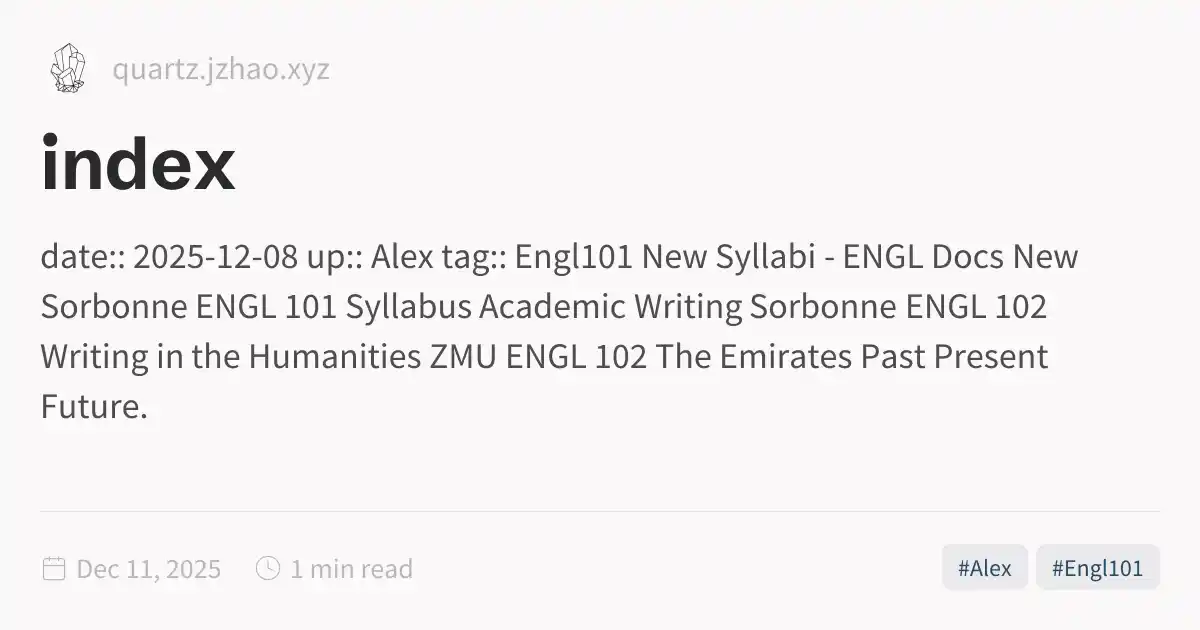
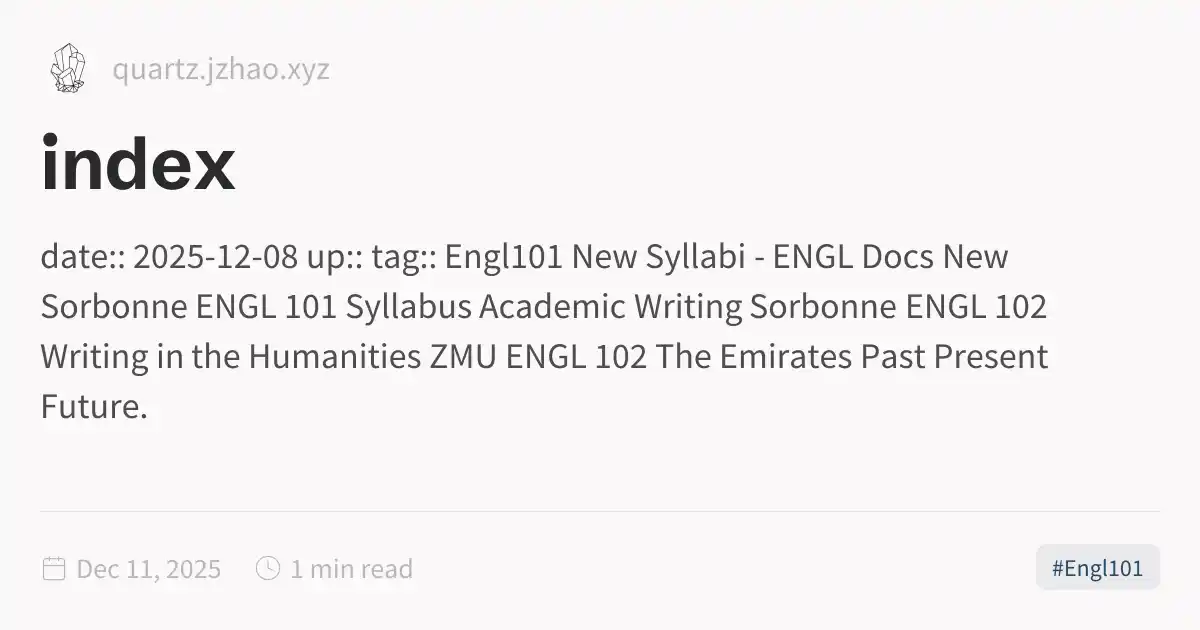
Rebuild and deploy latest changes

Changed region(s): [[0.3083, 0.3619, 0.8942, 0.4524], [0.8017, 0.8746, 0.8325, 0.9349]]

diff --git a/docs/tags/index.html b/docs/tags/index.html
@@ -115,6 +115,6 @@ pre:hover > .expand-button {
   padding: 0 12px;
   font-size: 14px;
 }
[2 lines of base64/hex data omitted]
 </script><script type="module" data-persist="true">function E(a,e){if(!a)return;function t(o){o.target===this&&(o.preventDefault(),o.stopPropagation(),e())}function n(o){o.key.startsWith("Esc")&&(o.preventDefault(),e())}a?.addEventListener("click",t),window.addCleanup(()=>a?.removeEventListener("click",t)),document.addEventListener("keydown",n),window.addCleanup(()=>document.removeEventListener("keydown",n))}function f(a){for(;a.firstChild;)a.removeChild(a.firstChild)}var m=class{constructor(e,t){this.container=e;this.content=t;this.setupEventListeners(),this.setupNavigationControls(),this.resetTransform()}isDragging=!1;startPan={x:0,y:0};currentPan={x:0,y:0};scale=1;MIN_SCALE=.5;MAX_SCALE=3;cleanups=[];setupEventListeners(){let e=this.onMouseDown.bind(this),t=this.onMouseMove.bind(this),n=this.onMouseUp.bind(this),o=this.onTouchStart.bind(this),r=this.onTouchMove.bind(this),i=this.onTouchEnd.bind(this),s=this.resetTransform.bind(this);this.container.addEventListener("mousedown",e),document.addEventListener("mousemove",t),document.addEventListener("mouseup",n),this.container.addEventListener("touchstart",o,{passive:!1}),document.addEventListener("touchmove",r,{passive:!1}),document.addEventListener("touchend",i),window.addEventListener("resize",s),this.cleanups.push(()=>this.container.removeEventListener("mousedown",e),()=>document.removeEventListener("mousemove",t),()=>document.removeEventListener("mouseup",n),()=>this.container.removeEventListener("touchstart",o),()=>document.removeEventListener("touchmove",r),()=>document.removeEventListener("touchend",i),()=>window.removeEventListener("resize",s))}cleanup(){for(let e of this.cleanups)e()}setupNavigationControls(){let e=document.createElement("div");e.className="mermaid-controls";let t=this.createButton("+",()=>this.zoom(.1)),n=this.createButton("-",()=>this.zoom(-.1)),o=this.createButton("Reset",()=>this.resetTransform());e.appendChild(n),e.appendChild(o),e.appendChild(t),this.container.appendChild(e)}createButton(e,t){let n=document.createElement("button");return n.textContent=e,n.className="mermaid-control-button",n.addEventListener("click",t),window.addCleanup(()=>n.removeEventListener("click",t)),n}onMouseDown(e){e.button===0&&(this.isDragging=!0,this.startPan={x:e.clientX-this.currentPan.x,y:e.clientY-this.currentPan.y},this.container.style.cursor="grabbing")}onMouseMove(e){this.isDragging&&(e.preventDefault(),this.currentPan={x:e.clientX-this.startPan.x,y:e.clientY-this.startPan.y},this.updateTransform())}onMouseUp(){this.isDragging=!1,this.container.style.cursor="grab"}onTouchStart(e){if(e.touches.length!==1)return;this.isDragging=!0;let t=e.touches[0];this.startPan={x:t.clientX-this.currentPan.x,y:t.clientY-this.currentPan.y}}onTouchMove(e){if(!this.isDragging||e.touches.length!==1)return;e.preventDefault();let t=e.touches[0];this.currentPan={x:t.clientX-this.startPan.x,y:t.clientY-this.startPan.y},this.updateTransform()}onTouchEnd(){this.isDragging=!1}zoom(e){let t=Math.min(Math.max(this.scale+e,this.MIN_SCALE),this.MAX_SCALE),n=this.content.getBoundingClientRect(),o=n.width/2,r=n.height/2,i=t-this.scale;this.currentPan.x-=o*i,this.currentPan.y-=r*i,this.scale=t,this.updateTransform()}updateTransform(){this.content.style.transform=`translate(${this.currentPan.x}px, ${this.currentPan.y}px) scale(${this.scale})`}resetTransform(){let t=this.content.querySelector("svg").getBoundingClientRect(),n=t.width/this.scale,o=t.height/this.scale;this.scale=1,this.currentPan={x:(this.container.clientWidth-n)/2,y:(this.container.clientHeight-o)/2},this.updateTransform()}},T=["--secondary","--tertiary","--gray","--light","--lightgray","--highlight","--dark","--darkgray","--codeFont"],y;document.addEventListener("nav",async()=>{let e=document.querySelector(".center").querySelectorAll("code.mermaid");if(e.length===0)return;y||=await import("https://cdnjs.cloudflare.com/ajax/libs/mermaid/11.4.0/mermaid.esm.min.mjs");let t=y.default,n=new WeakMap;for(let r of e)n.set(r,r.innerText);async function o(){for(let s of e){s.removeAttribute("data-processed");let c=n.get(s);c&&(s.innerHTML=c)}let r=T.reduce((s,c)=>(s[c]=window.getComputedStyle(document.documentElement).getPropertyValue(c),s),{}),i=document.documentElement.getAttribute("saved-theme")==="dark";t.initialize({startOnLoad:!1,securityLevel:"loose",theme:i?"dark":"base",themeVariables:{fontFamily:r["--codeFont"],primaryColor:r["--light"],primaryTextColor:r["--darkgray"],primaryBorderColor:r["--tertiary"],lineColor:r["--darkgray"],secondaryColor:r["--secondary"],tertiaryColor:r["--tertiary"],clusterBkg:r["--light"],edgeLabelBackground:r["--highlight"]}}),await t.run({nodes:e})}await o(),document.addEventListener("themechange",o),window.addCleanup(()=>document.removeEventListener("themechange",o));for(let r=0;r<e.length;r++){let v=function(){let g=l.querySelector("#mermaid-space"),h=l.querySelector(".mermaid-content");if(!h)return;f(h);let w=i.querySelector("svg").cloneNode(!0);h.appendChild(w),l.classList.add("active"),g.style.cursor="grab",u=new m(g,h)},M=function(){l.classList.remove("active"),u?.cleanup(),u=null},i=e[r],s=i.parentElement,c=s.querySelector(".clipboard-button"),d=s.querySelector(".expand-button"),p=window.getComputedStyle(c),L=c.offsetWidth+parseFloat(p.marginLeft||"0")+parseFloat(p.marginRight||"0");d.style.right=`calc(${L}px + 0.3rem)`,s.prepend(d);let l=s.querySelector("#mermaid-container");if(!l)return;let u=null;d.addEventListener("click",v),E(l,M),window.addCleanup(()=>{u?.cleanup(),d.removeEventListener("click",v)})}});
 </script><script src="https://cdn.jsdelivr.net/npm/katex@0.16.11/dist/contrib/copy-tex.min.js" type="application/javascript" data-persist="true"></script><script src="../postscript.js" type="module" data-persist="true"></script></html>

diff --git a/docs/index.html b/docs/index.html
@@ -1,5 +1,5 @@
 <!DOCTYPE html>
-<html lang="en" dir="ltr"><head><title>index</title><meta charset="utf-8"/><link rel="preconnect" href="https://fonts.googleapis.com"/><link rel="preconnect" href="https://fonts.gstatic.com"/><link rel="stylesheet" href="https://fonts.googleapis.com/css2?family=Schibsted Grotesk:wght@400;700&amp;family=Source Sans Pro:ital,wght@0,400;0,600;1,400;1,600&amp;family=IBM Plex Mono:wght@400;600&amp;display=swap"/><link rel="preconnect" href="https://cdnjs.cloudflare.com" crossorigin="anonymous"/><meta name="viewport" content="width=device-width, initial-scale=1.0"/><meta name="og:site_name" content="Quartz 4"/><meta property="og:title" content="index"/><meta property="og:type" content="website"/><meta name="twitter:card" content="summary_large_image"/><meta name="twitter:title" content="index"/><meta name="twitter:description" content="date:: 2025-12-08 up:: Alex tag:: Engl101 New Syllabi - ENGL Docs New Sorbonne ENGL 101 Syllabus Academic Writing Sorbonne ENGL 102 Writing in the Humanities ZMU ENGL 102 The Emirates Past Present Future."/><meta property="og:description" content="date:: 2025-12-08 up:: Alex tag:: Engl101 New Syllabi - ENGL Docs New Sorbonne ENGL 101 Syllabus Academic Writing Sorbonne ENGL 102 Writing in the Humanities ZMU ENGL 102 The Emirates Past Present Future."/><meta property="og:image:alt" content="date:: 2025-12-08 up:: Alex tag:: Engl101 New Syllabi - ENGL Docs New Sorbonne ENGL 101 Syllabus Academic Writing Sorbonne ENGL 102 Writing in the Humanities ZMU ENGL 102 The Emirates Past Present Future."/><meta property="twitter:domain" content="quartz.jzhao.xyz"/><meta property="og:url" content="https://quartz.jzhao.xyz/index"/><meta property="twitter:url" content="https://quartz.jzhao.xyz/index"/><link rel="icon" href="./static/icon.png"/><meta name="description" content="date:: 2025-12-08 up:: Alex tag:: Engl101 New Syllabi - ENGL Docs New Sorbonne ENGL 101 Syllabus Academic Writing Sorbonne ENGL 102 Writing in the Humanities ZMU ENGL 102 The Emirates Past Present Future."/><meta name="generator" content="Quartz"/><link href="./index.css" rel="stylesheet" type="text/css" data-persist="true"/><style>.expand-button {
+<html lang="en" dir="ltr"><head><title>index</title><meta charset="utf-8"/><link rel="preconnect" href="https://fonts.googleapis.com"/><link rel="preconnect" href="https://fonts.gstatic.com"/><link rel="stylesheet" href="https://fonts.googleapis.com/css2?family=Schibsted Grotesk:wght@400;700&amp;family=Source Sans Pro:ital,wght@0,400;0,600;1,400;1,600&amp;family=IBM Plex Mono:wght@400;600&amp;display=swap"/><link rel="preconnect" href="https://cdnjs.cloudflare.com" crossorigin="anonymous"/><meta name="viewport" content="width=device-width, initial-scale=1.0"/><meta name="og:site_name" content="Quartz 4"/><meta property="og:title" content="index"/><meta property="og:type" content="website"/><meta name="twitter:card" content="summary_large_image"/><meta name="twitter:title" content="index"/><meta name="twitter:description" content="date:: 2025-12-08 up:: tag:: Engl101 New Syllabi - ENGL Docs New Sorbonne ENGL 101 Syllabus Academic Writing Sorbonne ENGL 102 Writing in the Humanities ZMU ENGL 102 The Emirates Past Present Future."/><meta property="og:description" content="date:: 2025-12-08 up:: tag:: Engl101 New Syllabi - ENGL Docs New Sorbonne ENGL 101 Syllabus Academic Writing Sorbonne ENGL 102 Writing in the Humanities ZMU ENGL 102 The Emirates Past Present Future."/><meta property="og:image:alt" content="date:: 2025-12-08 up:: tag:: Engl101 New Syllabi - ENGL Docs New Sorbonne ENGL 101 Syllabus Academic Writing Sorbonne ENGL 102 Writing in the Humanities ZMU ENGL 102 The Emirates Past Present Future."/><meta property="twitter:domain" content="quartz.jzhao.xyz"/><meta property="og:url" content="https://quartz.jzhao.xyz/index"/><meta property="twitter:url" content="https://quartz.jzhao.xyz/index"/><link rel="icon" href="./static/icon.png"/><meta name="description" content="date:: 2025-12-08 up:: tag:: Engl101 New Syllabi - ENGL Docs New Sorbonne ENGL 101 Syllabus Academic Writing Sorbonne ENGL 102 Writing in the Humanities ZMU ENGL 102 The Emirates Past Present Future."/><meta name="generator" content="Quartz"/><link href="./index.css" rel="stylesheet" type="text/css" data-persist="true"/><style>.expand-button {
   position: absolute;
   display: flex;
   float: right;
@@ -115,8 +115,8 @@ pre:hover > .expand-button {
   padding: 0 12px;
   font-size: 14px;
 }
[1 lines of base64/hex data omitted]
-up:: <a href="./tags/Alex" class="tag-link internal alias" data-slug="tags/Alex">Alex</a>
[1 lines of base64/hex data omitted]
+up::
 tag:: <a href="./tags/Engl101" class="tag-link internal alias" data-slug="tags/Engl101">Engl101</a></p>
 <hr/>
 <h1 id="new-syllabi---engl-docs-new">New Syllabi - ENGL Docs New<a role="anchor" aria-hidden="true" tabindex="-1" data-no-popover="true" href="#new-syllabi---engl-docs-new" class="internal"><svg width="18" height="18" viewBox="0 0 24 24" fill="none" stroke="currentColor" stroke-width="2" stroke-linecap="round" stroke-linejoin="round"><path d="M10 13a5 5 0 0 0 7.54.54l3-3a5 5 0 0 0-7.07-7.07l-1.72 1.71"></path><path d="M14 11a5 5 0 0 0-7.54-.54l-3 3a5 5 0 0 0 7.07 7.07l1.71-1.71"></path></svg></a></h1>

diff --git a/docs/tags/ENGL101.html b/docs/tags/ENGL101.html
@@ -115,6 +115,6 @@ pre:hover > .expand-button {
   padding: 0 12px;
   font-size: 14px;
 }
[2 lines of base64/hex data omitted]
 </script><script type="module" data-persist="true">function E(a,e){if(!a)return;function t(o){o.target===this&&(o.preventDefault(),o.stopPropagation(),e())}function n(o){o.key.startsWith("Esc")&&(o.preventDefault(),e())}a?.addEventListener("click",t),window.addCleanup(()=>a?.removeEventListener("click",t)),document.addEventListener("keydown",n),window.addCleanup(()=>document.removeEventListener("keydown",n))}function f(a){for(;a.firstChild;)a.removeChild(a.firstChild)}var m=class{constructor(e,t){this.container=e;this.content=t;this.setupEventListeners(),this.setupNavigationControls(),this.resetTransform()}isDragging=!1;startPan={x:0,y:0};currentPan={x:0,y:0};scale=1;MIN_SCALE=.5;MAX_SCALE=3;cleanups=[];setupEventListeners(){let e=this.onMouseDown.bind(this),t=this.onMouseMove.bind(this),n=this.onMouseUp.bind(this),o=this.onTouchStart.bind(this),r=this.onTouchMove.bind(this),i=this.onTouchEnd.bind(this),s=this.resetTransform.bind(this);this.container.addEventListener("mousedown",e),document.addEventListener("mousemove",t),document.addEventListener("mouseup",n),this.container.addEventListener("touchstart",o,{passive:!1}),document.addEventListener("touchmove",r,{passive:!1}),document.addEventListener("touchend",i),window.addEventListener("resize",s),this.cleanups.push(()=>this.container.removeEventListener("mousedown",e),()=>document.removeEventListener("mousemove",t),()=>document.removeEventListener("mouseup",n),()=>this.container.removeEventListener("touchstart",o),()=>document.removeEventListener("touchmove",r),()=>document.removeEventListener("touchend",i),()=>window.removeEventListener("resize",s))}cleanup(){for(let e of this.cleanups)e()}setupNavigationControls(){let e=document.createElement("div");e.className="mermaid-controls";let t=this.createButton("+",()=>this.zoom(.1)),n=this.createButton("-",()=>this.zoom(-.1)),o=this.createButton("Reset",()=>this.resetTransform());e.appendChild(n),e.appendChild(o),e.appendChild(t),this.container.appendChild(e)}createButton(e,t){let n=document.createElement("button");return n.textContent=e,n.className="mermaid-control-button",n.addEventListener("click",t),window.addCleanup(()=>n.removeEventListener("click",t)),n}onMouseDown(e){e.button===0&&(this.isDragging=!0,this.startPan={x:e.clientX-this.currentPan.x,y:e.clientY-this.currentPan.y},this.container.style.cursor="grabbing")}onMouseMove(e){this.isDragging&&(e.preventDefault(),this.currentPan={x:e.clientX-this.startPan.x,y:e.clientY-this.startPan.y},this.updateTransform())}onMouseUp(){this.isDragging=!1,this.container.style.cursor="grab"}onTouchStart(e){if(e.touches.length!==1)return;this.isDragging=!0;let t=e.touches[0];this.startPan={x:t.clientX-this.currentPan.x,y:t.clientY-this.currentPan.y}}onTouchMove(e){if(!this.isDragging||e.touches.length!==1)return;e.preventDefault();let t=e.touches[0];this.currentPan={x:t.clientX-this.startPan.x,y:t.clientY-this.startPan.y},this.updateTransform()}onTouchEnd(){this.isDragging=!1}zoom(e){let t=Math.min(Math.max(this.scale+e,this.MIN_SCALE),this.MAX_SCALE),n=this.content.getBoundingClientRect(),o=n.width/2,r=n.height/2,i=t-this.scale;this.currentPan.x-=o*i,this.currentPan.y-=r*i,this.scale=t,this.updateTransform()}updateTransform(){this.content.style.transform=`translate(${this.currentPan.x}px, ${this.currentPan.y}px) scale(${this.scale})`}resetTransform(){let t=this.content.querySelector("svg").getBoundingClientRect(),n=t.width/this.scale,o=t.height/this.scale;this.scale=1,this.currentPan={x:(this.container.clientWidth-n)/2,y:(this.container.clientHeight-o)/2},this.updateTransform()}},T=["--secondary","--tertiary","--gray","--light","--lightgray","--highlight","--dark","--darkgray","--codeFont"],y;document.addEventListener("nav",async()=>{let e=document.querySelector(".center").querySelectorAll("code.mermaid");if(e.length===0)return;y||=await import("https://cdnjs.cloudflare.com/ajax/libs/mermaid/11.4.0/mermaid.esm.min.mjs");let t=y.default,n=new WeakMap;for(let r of e)n.set(r,r.innerText);async function o(){for(let s of e){s.removeAttribute("data-processed");let c=n.get(s);c&&(s.innerHTML=c)}let r=T.reduce((s,c)=>(s[c]=window.getComputedStyle(document.documentElement).getPropertyValue(c),s),{}),i=document.documentElement.getAttribute("saved-theme")==="dark";t.initialize({startOnLoad:!1,securityLevel:"loose",theme:i?"dark":"base",themeVariables:{fontFamily:r["--codeFont"],primaryColor:r["--light"],primaryTextColor:r["--darkgray"],primaryBorderColor:r["--tertiary"],lineColor:r["--darkgray"],secondaryColor:r["--secondary"],tertiaryColor:r["--tertiary"],clusterBkg:r["--light"],edgeLabelBackground:r["--highlight"]}}),await t.run({nodes:e})}await o(),document.addEventListener("themechange",o),window.addCleanup(()=>document.removeEventListener("themechange",o));for(let r=0;r<e.length;r++){let v=function(){let g=l.querySelector("#mermaid-space"),h=l.querySelector(".mermaid-content");if(!h)return;f(h);let w=i.querySelector("svg").cloneNode(!0);h.appendChild(w),l.classList.add("active"),g.style.cursor="grab",u=new m(g,h)},M=function(){l.classList.remove("active"),u?.cleanup(),u=null},i=e[r],s=i.parentElement,c=s.querySelector(".clipboard-button"),d=s.querySelector(".expand-button"),p=window.getComputedStyle(c),L=c.offsetWidth+parseFloat(p.marginLeft||"0")+parseFloat(p.marginRight||"0");d.style.right=`calc(${L}px + 0.3rem)`,s.prepend(d);let l=s.querySelector("#mermaid-container");if(!l)return;let u=null;d.addEventListener("click",v),E(l,M),window.addCleanup(()=>{u?.cleanup(),d.removeEventListener("click",v)})}});
 </script><script src="https://cdn.jsdelivr.net/npm/katex@0.16.11/dist/contrib/copy-tex.min.js" type="application/javascript" data-persist="true"></script><script src="../postscript.js" type="module" data-persist="true"></script></html>

diff --git a/docs/Sorbonne-ENGL-101-Syllabus-Academic-Writing.html b/docs/Sorbonne-ENGL-101-Syllabus-Academic-Writing.html
@@ -190,7 +190,7 @@ pre:hover > .expand-button {
 </ul>
 <h2 id="assignments">Assignments<a role="anchor" aria-hidden="true" tabindex="-1" data-no-popover="true" href="#assignments" class="internal"><svg width="18" height="18" viewBox="0 0 24 24" fill="none" stroke="currentColor" stroke-width="2" stroke-linecap="round" stroke-linejoin="round"><path d="M10 13a5 5 0 0 0 7.54.54l3-3a5 5 0 0 0-7.07-7.07l-1.72 1.71"></path><path d="M14 11a5 5 0 0 0-7.54-.54l-3 3a5 5 0 0 0 7.07 7.07l1.71-1.71"></path></svg></a></h2>
 <h3 id="writing-1-exploratory-writing-500-words---20-of-grade">Writing 1: Exploratory Writing (500 words - 20% of grade)<a role="anchor" aria-hidden="true" tabindex="-1" data-no-popover="true" href="#writing-1-exploratory-writing-500-words---20-of-grade" class="internal"><svg width="18" height="18" viewBox="0 0 24 24" fill="none" stroke="currentColor" stroke-width="2" stroke-linecap="round" stroke-linejoin="round"><path d="M10 13a5 5 0 0 0 7.54.54l3-3a5 5 0 0 0-7.07-7.07l-1.72 1.71"></path><path d="M14 11a5 5 0 0 0-7.54-.54l-3 3a5 5 0 0 0 7.07 7.07l1.71-1.71"></path></svg></a></h3>
-<p><strong>Purpose</strong>: Develop clear structure and reflective exploratory writing.
+<p><strong>Purpose</strong>: Develop clear structure and reflective exploratory writing.<br/>
 <strong>Task</strong>: Write an exploratory writing related to the theme of the class that shaped your perspective.</p>
 <h3 id="requirements"><strong>Requirements</strong>:<a role="anchor" aria-hidden="true" tabindex="-1" data-no-popover="true" href="#requirements" class="internal"><svg width="18" height="18" viewBox="0 0 24 24" fill="none" stroke="currentColor" stroke-width="2" stroke-linecap="round" stroke-linejoin="round"><path d="M10 13a5 5 0 0 0 7.54.54l3-3a5 5 0 0 0-7.07-7.07l-1.72 1.71"></path><path d="M14 11a5 5 0 0 0-7.54-.54l-3 3a5 5 0 0 0 7.07 7.07l1.71-1.71"></path></svg></a></h3>
 <ul>
@@ -200,7 +200,7 @@ pre:hover > .expand-button {
 <li>Edited for clarity and grammar</li>
 </ul>
 <h3 id="writing-2-textualrhetorical-analysis-800-words---30-of-grade">Writing 2: Textual/Rhetorical Analysis (800 words - 30% of grade)<a role="anchor" aria-hidden="true" tabindex="-1" data-no-popover="true" href="#writing-2-textualrhetorical-analysis-800-words---30-of-grade" class="internal"><svg width="18" height="18" viewBox="0 0 24 24" fill="none" stroke="currentColor" stroke-width="2" stroke-linecap="round" stroke-linejoin="round"><path d="M10 13a5 5 0 0 0 7.54.54l3-3a5 5 0 0 0-7.07-7.07l-1.72 1.71"></path><path d="M14 11a5 5 0 0 0-7.54-.54l-3 3a5 5 0 0 0 7.07 7.07l1.71-1.71"></path></svg></a></h3>
-<p><strong>Purpose</strong>: Strengthen critical reading and analytical writing.
+<p><strong>Purpose</strong>: Strengthen critical reading and analytical writing.<br/>
 <strong>Task</strong>: Analyze how an author persuades an audience. Focus on rhetorical strategies.</p>
 <h3 id="requirements-1"><strong>Requirements</strong>:<a role="anchor" aria-hidden="true" tabindex="-1" data-no-popover="true" href="#requirements-1" class="internal"><svg width="18" height="18" viewBox="0 0 24 24" fill="none" stroke="currentColor" stroke-width="2" stroke-linecap="round" stroke-linejoin="round"><path d="M10 13a5 5 0 0 0 7.54.54l3-3a5 5 0 0 0-7.07-7.07l-1.72 1.71"></path><path d="M14 11a5 5 0 0 0-7.54-.54l-3 3a5 5 0 0 0 7.07 7.07l1.71-1.71"></path></svg></a></h3>
 <ul>
@@ -210,7 +210,7 @@ pre:hover > .expand-button {
 <li>Focus on how the text persuades</li>
 </ul>
 <h3 id="writing-3-research-supported-argument-1000-words---30-of-grade">Writing 3: Research-Supported Argument (1000 words - 30% of grade)<a role="anchor" aria-hidden="true" tabindex="-1" data-no-popover="true" href="#writing-3-research-supported-argument-1000-words---30-of-grade" class="internal"><svg width="18" height="18" viewBox="0 0 24 24" fill="none" stroke="currentColor" stroke-width="2" stroke-linecap="round" stroke-linejoin="round"><path d="M10 13a5 5 0 0 0 7.54.54l3-3a5 5 0 0 0-7.07-7.07l-1.72 1.71"></path><path d="M14 11a5 5 0 0 0-7.54-.54l-3 3a5 5 0 0 0 7.07 7.07l1.71-1.71"></path></svg></a></h3>
-<p><strong>Purpose</strong>: Produce a sustained argument using credible sources.
+<p><strong>Purpose</strong>: Produce a sustained argument using credible sources.<br/>
 <strong>Task</strong>: Answer a focused research question using 3–5 academic or high-quality sources.</p>
 <h3 id="requirements-2"><strong>Requirements</strong>:<a role="anchor" aria-hidden="true" tabindex="-1" data-no-popover="true" href="#requirements-2" class="internal"><svg width="18" height="18" viewBox="0 0 24 24" fill="none" stroke="currentColor" stroke-width="2" stroke-linecap="round" stroke-linejoin="round"><path d="M10 13a5 5 0 0 0 7.54.54l3-3a5 5 0 0 0-7.07-7.07l-1.72 1.71"></path><path d="M14 11a5 5 0 0 0-7.54-.54l-3 3a5 5 0 0 0 7.07 7.07l1.71-1.71"></path></svg></a></h3>
 <ul>
@@ -229,7 +229,7 @@ pre:hover > .expand-button {
 <li>Use slides or visual aids if needed</li>
 </ul>
 <h3 id="final-portfolio---10-of-grade">Final Portfolio (- 10% of grade)<a role="anchor" aria-hidden="true" tabindex="-1" data-no-popover="true" href="#final-portfolio---10-of-grade" class="internal"><svg width="18" height="18" viewBox="0 0 24 24" fill="none" stroke="currentColor" stroke-width="2" stroke-linecap="round" stroke-linejoin="round"><path d="M10 13a5 5 0 0 0 7.54.54l3-3a5 5 0 0 0-7.07-7.07l-1.72 1.71"></path><path d="M14 11a5 5 0 0 0-7.54-.54l-3 3a5 5 0 0 0 7.07 7.07l1.71-1.71"></path></svg></a></h3>
-<p><strong>Purpose</strong>: Demonstrate growth across the course through revision and reflection.
+<p><strong>Purpose</strong>: Demonstrate growth across the course through revision and reflection.<br/>
 Contents:</p>
 <ul>
 <li>Revised writings (as required)</li>
